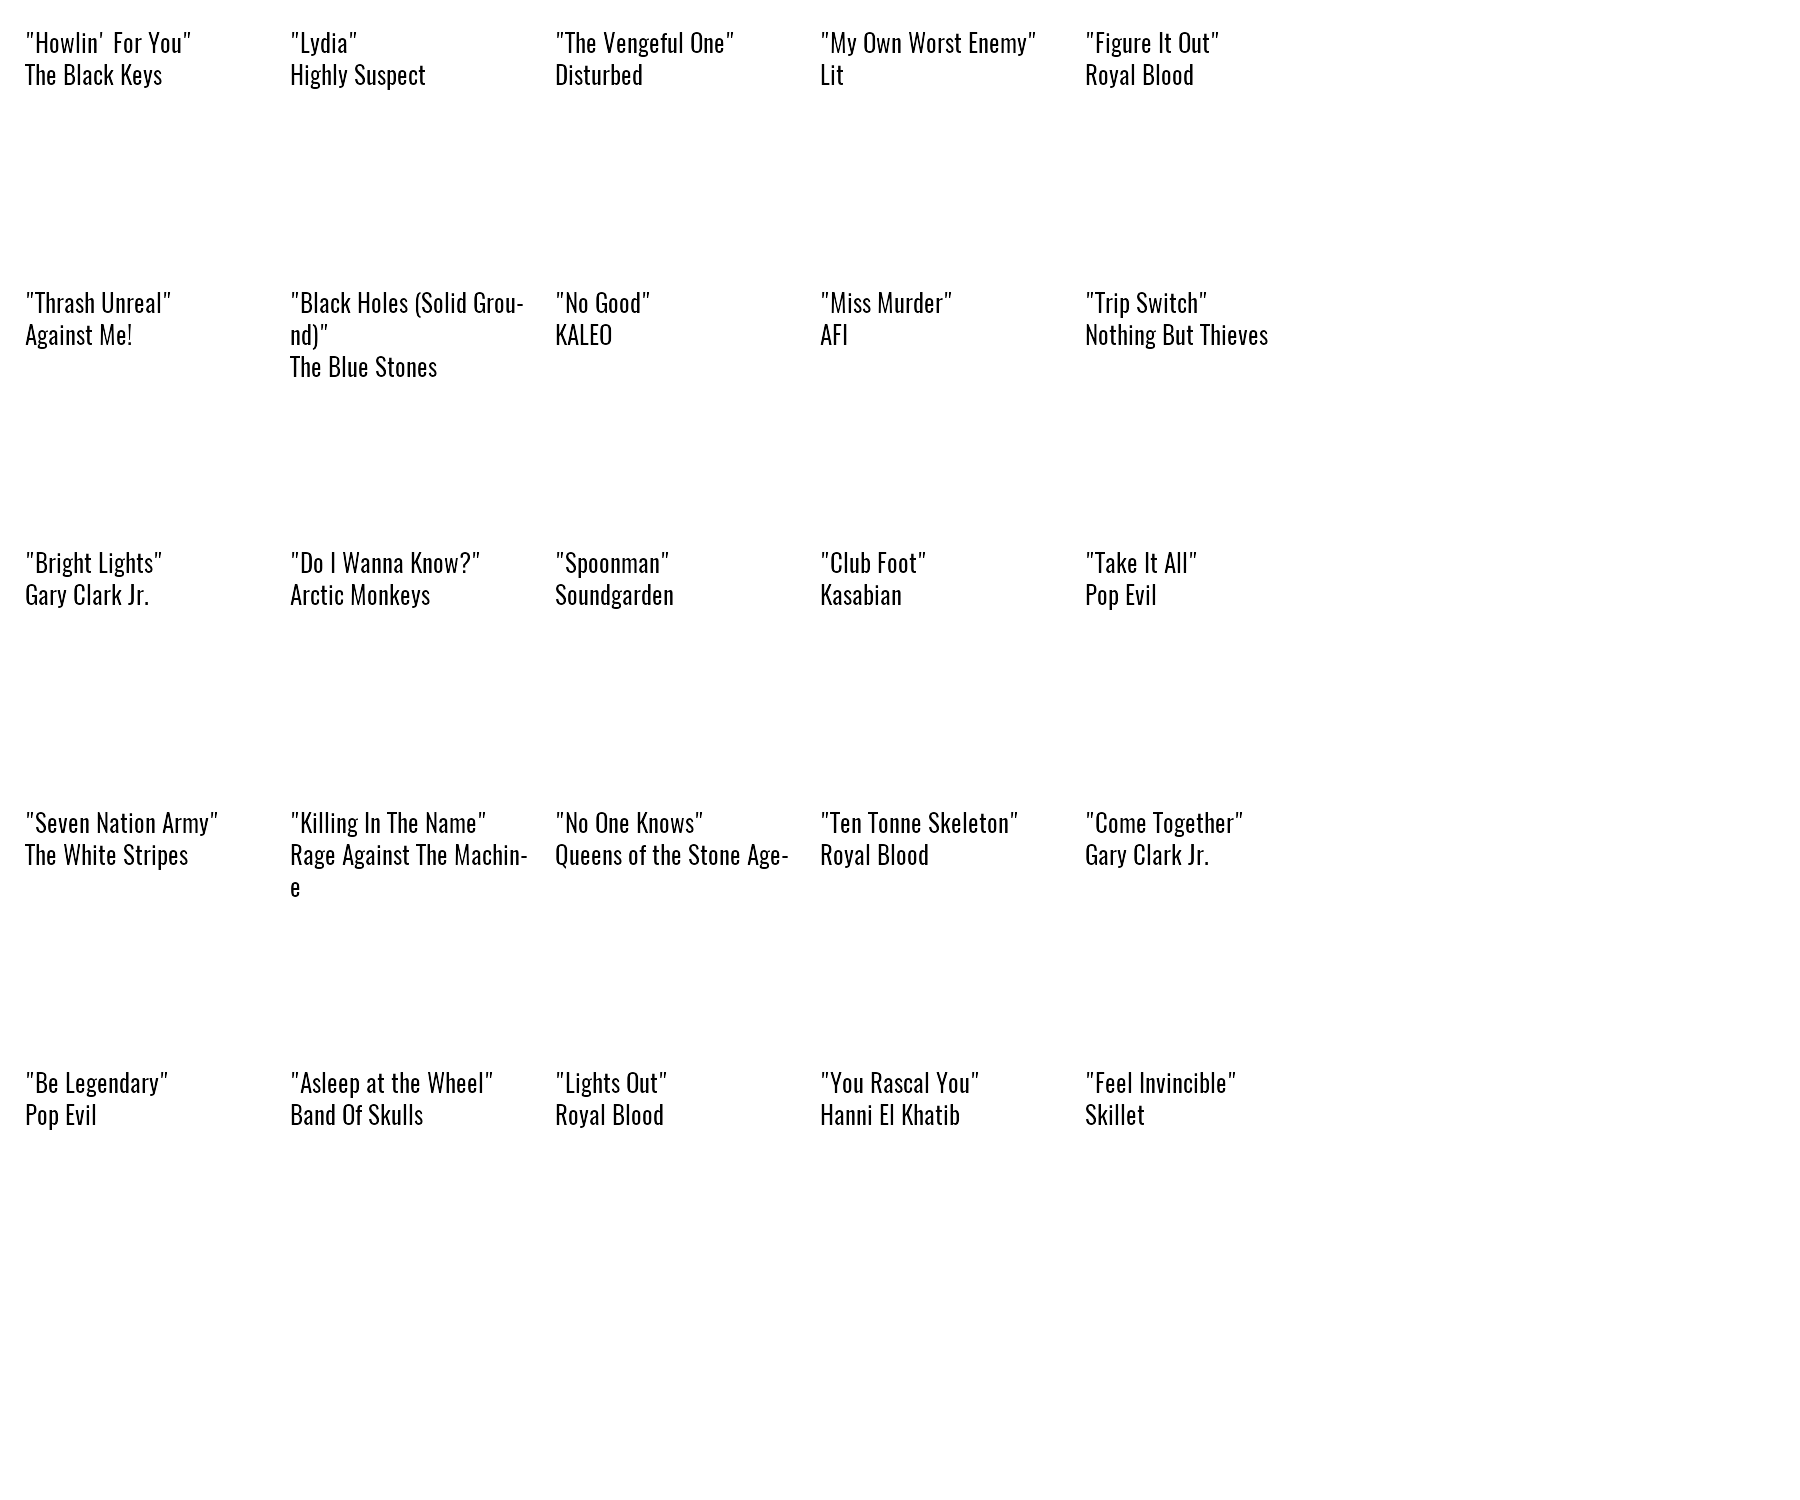
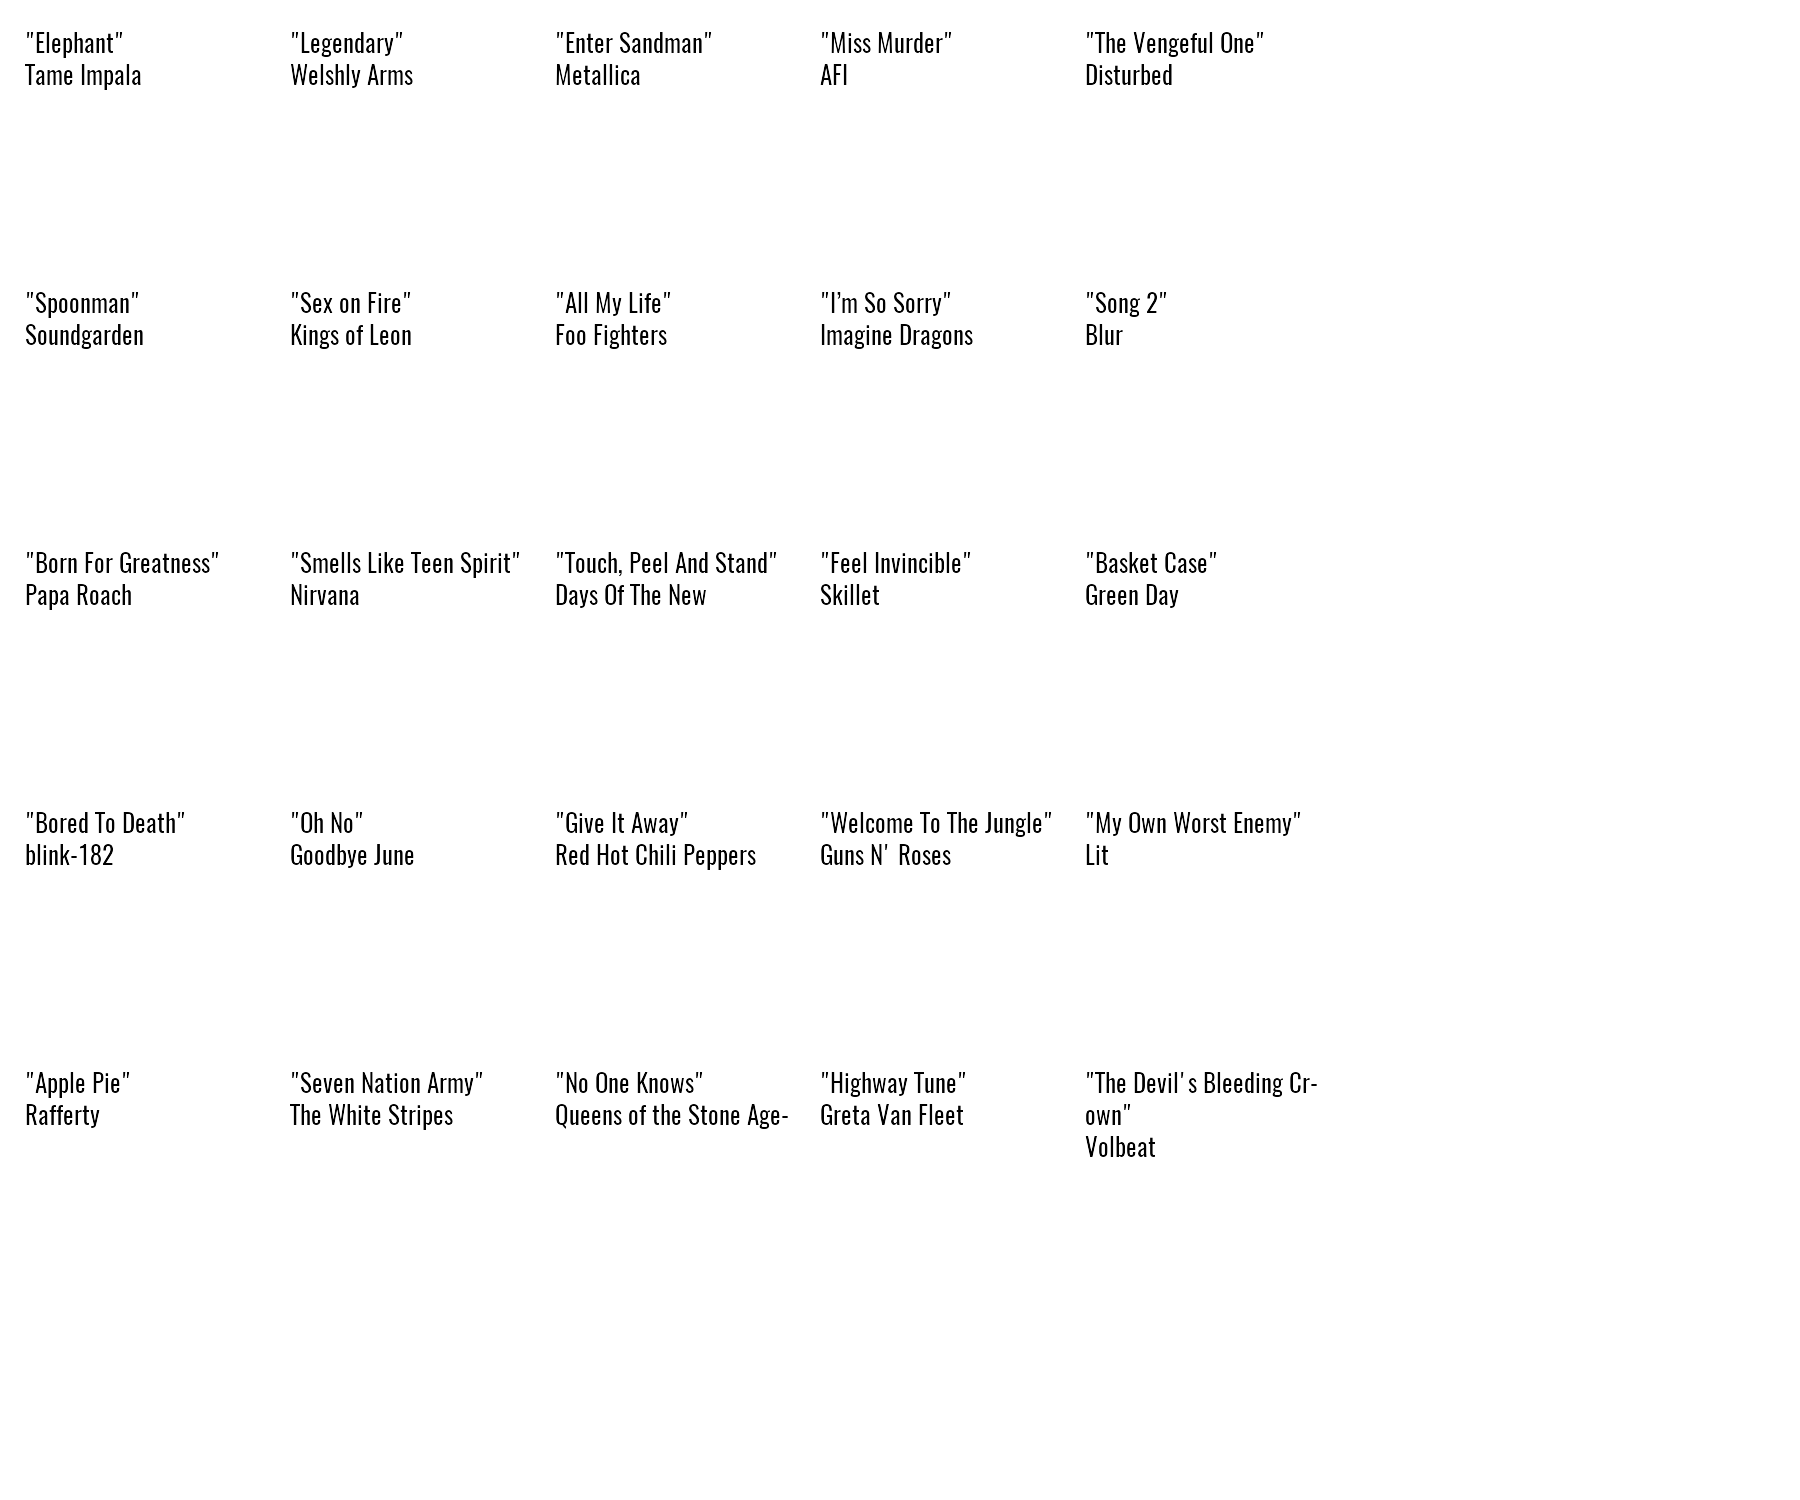
Done.

diff --git a/bingo_map_songs2000.py b/bingo_map_songs2000.py
@@ -66,8 +66,9 @@ def beautify(song_tuple, max_width):
 
     return '"' + str(str1) + '"' +"\n"+str(str2)
 
-def draw_image_from_colour_grid(colour_grid):
+def draw_image_from_colour_grid(colour_grid, name):
 
+    # width, height = int(8.27 * 300), int(11.7 * 300) # A4 at 300dpi
     width = 1800
     string_width = 23
     font_width = 25
@@ -77,6 +78,8 @@ def draw_image_from_colour_grid(colour_grid):
     white = (255,255,255)
     black = (0,0,0)
     font = ImageFont.truetype('Oswald-Regular.ttf', font_width)
+    name1 = str(name)
+    bingo_name = 'BINGO/test_bingo' + name1 + '.pdf'
 
     wm = Image.new('RGBA',(width,height),transparent)
     im = Image.new('RGBA',(width,height),transparent)
@@ -95,16 +98,16 @@ def draw_image_from_colour_grid(colour_grid):
     im.paste(wm, (25,25), mask)
     im.save('bingo.png', 'PNG')
 
-    
 
     ima = Image.open('sheet2-1.png')
 
     ima.paste(wm, (180,690), mask)
 
-    ima.save('BINGO/test_bingo.png', 'PNG')
+    ima.save(bingo_name, 'PDF')
     
 
 if __name__ == '__main__':
-    value_grid = create_grid(5)
-    colour_grid = map_song_to_grid(value_grid)
-    draw_image_from_colour_grid(colour_grid)
+    for i in range(5):
+        value_grid = create_grid(5)
+        colour_grid = map_song_to_grid(value_grid)
+        draw_image_from_colour_grid(colour_grid, i)
